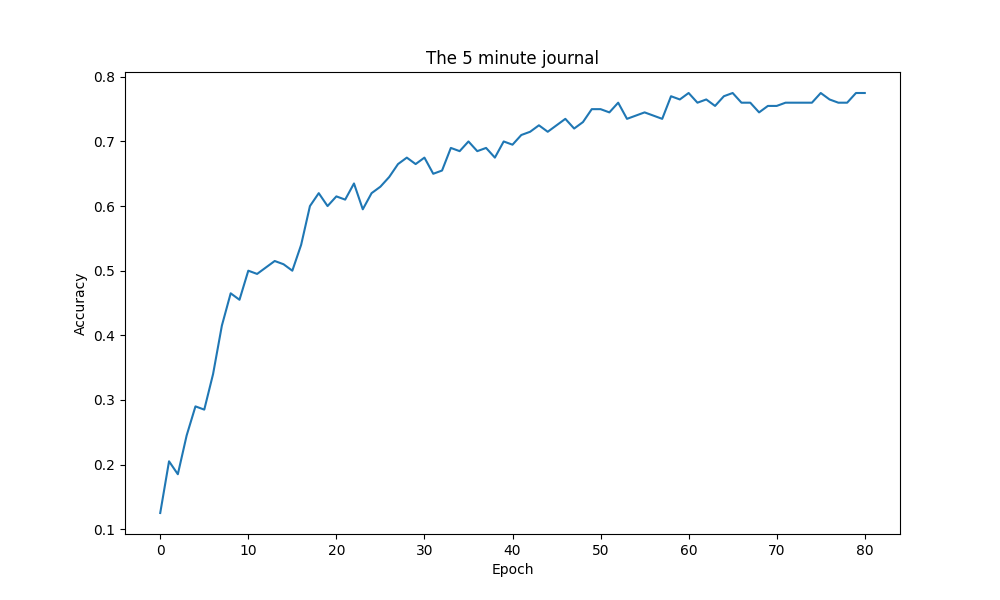
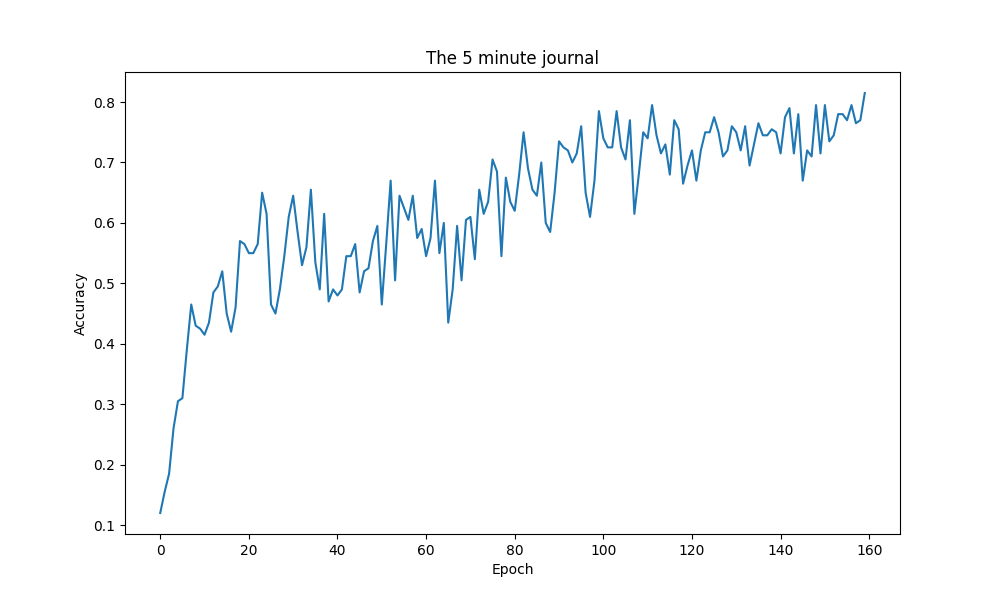
Corrected bias implementation

diff --git a/src/NN.c b/src/NN.c
@@ -26,7 +26,7 @@
 #define INPUT 875
 // #define HIDDEN1 300
 // #define HIDDEN2 100
-#define BIAS 2
+#define BIAS 3
 #define OUTPUT 10
 #define H 0.00001
 
@@ -34,8 +34,8 @@ int HIDDEN1;
 int HIDDEN2;
 
 int ** loadInput(char * inFile);
-double* runNN(double** w1, double** w2, double** out, double*bias, int ** data);
-void trainNN(double** w1, double** w2, double** out, double*bias, int ** data, char expected, double learningRate);
+double* runNN(double** w1, double** w2, double** out, double** bias, int ** data);
+void trainNN(double** w1, double** w2, double** out, double** bias, int ** data, char expected, double learningRate);
 void printWeights(double** w1, double** w2, double** out, int count);
 
 int main(int argc, char * argv[]) {
@@ -61,12 +61,12 @@ int main(int argc, char * argv[]) {
 	double rateAdjustment = atof(argv[4]);
 	int batch = atoi(argv[5]);
 	//Print for graph generation what you want
-	printf("%d-%d\n", HIDDEN1, HIDDEN2);
+	printf("%lf\n", learningRate);
 	//Allocate weight matrices
 	double** w1 = malloc(HIDDEN1*sizeof(double*));
 	double** w2 = malloc(HIDDEN2*sizeof(double*));
 	double** out = malloc(OUTPUT*sizeof(double*));
-	double* bias = calloc(BIAS, sizeof(double)); //Bias initialised to 0
+	double** bias = malloc(BIAS*sizeof(double*));
 	if (w1 == NULL || w2 == NULL || out == NULL || bias == NULL) {
 		printf("Weight initialisation failed, exiting\n");
 		exit(0);
@@ -90,6 +90,10 @@ int main(int argc, char * argv[]) {
 		for (int j = 0; j < HIDDEN2; j++)
 			out[i][j] = ((rand()%1000)-500)/(scale);
 	}
+	// Bias initialised to 0
+	bias[0] = calloc(HIDDEN1, sizeof(double));
+	bias[1] = calloc(HIDDEN2, sizeof(double));
+	bias[2] = calloc(OUTPUT, sizeof(double));
 	//Now train/test at discretion of a script
 	//Usage: <action> <inputFile>
 	char action[100], inFile[100];
@@ -179,6 +183,8 @@ int main(int argc, char * argv[]) {
 	for (int i = 0; i < OUTPUT; i++)
 		free(out[i]);
 	free(out);
+	for (int i = 0;  i < BIAS; i++)
+		free(bias[i]);
 	free(bias);
 	printf("done\n");
 	return 0;
@@ -226,13 +232,13 @@ void printWeights(double** w1, double** w2, double** out, int count) {
 }
 
 //Applies the data to the NN
-double* runNN(double** w1, double** w2, double** out, double*bias, int ** data) {
+double* runNN(double** w1, double** w2, double** out, double** bias, int ** data) {
 	double* result = malloc(OUTPUT*sizeof(double));
 	// First matrix multiplication: Data*w1
 	double * res1 = malloc(HIDDEN1*sizeof(double));
 	double sum;
 	for (int row = 0; row < HIDDEN1; row++) {
-		sum = bias[0];
+		sum = bias[0][row];
 		for (int col = 0; col < INPUT; col++) {
 			sum += data[col/SUBWIDTH][col%SUBWIDTH]*w1[row][col];
 		}
@@ -241,7 +247,7 @@ double* runNN(double** w1, double** w2, double** out, double*bias, int ** data) 
 	// Second matrix multiplication: *w2
 	double * res2 = malloc(HIDDEN2*sizeof(double));
 	for (int row = 0; row < HIDDEN2; row++) {
-		sum = bias[1];
+		sum = bias[1][row];
 		for (int col = 0; col < HIDDEN1; col++) {
 			sum += res1[col]*w2[row][col];
 		}
@@ -251,7 +257,7 @@ double* runNN(double** w1, double** w2, double** out, double*bias, int ** data) 
 	double* res3 = malloc(OUTPUT*sizeof(double));
 	double total = 0;
 	for (int row = 0; row < OUTPUT; row++) {
-		sum = 0;
+		sum = bias[2][row];
 		for (int col = 0; col < HIDDEN2; col++) {
 			sum += res2[col]*out[row][col];
 		}
@@ -269,7 +275,7 @@ double* runNN(double** w1, double** w2, double** out, double*bias, int ** data) 
 }
 
 // Trains the NN
-void trainNN(double** w1, double** w2, double** out, double*bias, int ** data, char expected, double learningRate) {
+void trainNN(double** w1, double** w2, double** out, double** bias, int ** data, char expected, double learningRate) {
 
 	double* result = malloc(OUTPUT*sizeof(double));
 	double* result_e = malloc(OUTPUT*sizeof(double));
@@ -279,7 +285,7 @@ void trainNN(double** w1, double** w2, double** out, double*bias, int ** data, c
 	double * res1 = malloc(HIDDEN1*sizeof(double));
 	double * deriv1 = malloc(HIDDEN1*sizeof(double));
 	for (int row = 0; row < HIDDEN1; row++) {
-		sum = bias[0];
+		sum = bias[0][row];
 		for (int col = 0; col < INPUT; col++) {
 			sum += data[col/SUBWIDTH][col%SUBWIDTH]*w1[row][col];
 		}
@@ -291,7 +297,7 @@ void trainNN(double** w1, double** w2, double** out, double*bias, int ** data, c
 	double * res2 = malloc(HIDDEN2*sizeof(double));
 	double * deriv2 = malloc(HIDDEN2*sizeof(double));
 	for (int row = 0; row < HIDDEN2; row++) {
-		sum = bias[1];
+		sum = bias[1][row];
 		for (int col = 0; col < HIDDEN1; col++) {
 			sum += res1[col]*w2[row][col];
 		}
@@ -303,7 +309,7 @@ void trainNN(double** w1, double** w2, double** out, double*bias, int ** data, c
 	double * res3 = malloc(OUTPUT*sizeof(double));
 	double * deriv3 = malloc(OUTPUT*sizeof(double));
 	for (int row = 0; row < OUTPUT; row++) {
-		sum = 0;
+		sum = bias[2][row];
 		for (int col = 0; col < HIDDEN2; col++) {
 			sum += res2[col]*out[row][col];
 		}
@@ -345,16 +351,23 @@ void trainNN(double** w1, double** w2, double** out, double*bias, int ** data, c
 	for (int row = 0; row < HIDDEN1; row++) //for each node in the first hidden layer
 		for (int col = 0; col < INPUT; col++)
 			w1[row][col] += learningRate*h1_e[row]*deriv1[row]*data[col/SUBWIDTH][col%SUBWIDTH];
+	//Also update bias weights for first layer
+	for (int row = 0; row < HIDDEN1; row++)
+		bias[0][row] += learningRate*deriv1[row];
 	//Now update weights in w2
 	for (int row = 0; row < HIDDEN2; row++) //for each node in the second hidden layer
 		for (int col = 0; col < HIDDEN1; col++)
 			w2[row][col] += learningRate*h2_e[row]*deriv2[row]*res1[col];
+	//Also update bias weights for second layer
+	for (int row = 0; row < HIDDEN2; row++)
+		bias[1][row] += learningRate*deriv2[row];
 	//Now update weights in out
 	for (int row = 0; row < OUTPUT; row++) //for each node in the output layer
 		for (int col = 0; col < HIDDEN2; col++)
 			out[row][col] += learningRate*result_e[row]*deriv3[row]*res2[col];
-	//Finally update the bias nodes
-		//Just gonna ignore them soz
+	//Also update bias weights for output
+	for (int row = 0; row < OUTPUT; row++)
+		bias[2][row] += learningRate*deriv3[row];
 	//I think we're done (phew) just free all the allocated shit
 	free(result);
 	free(result_e);

diff --git a/plot.py b/plot.py
@@ -16,6 +16,6 @@ while text != "done":
 fig, ax = plt.subplots(figsize=(10, 6))
 ax.plot(index, data)
 ax.set(title = "The 5 minute journal", xlabel = "Epoch", ylabel = "Accuracy")
-plt.savefig(f"results/Nodes/{nodes}.png")
+plt.savefig(f"results/LearningRate/{nodes}.png")
 # ax.plot(data)
 # plt.show()
